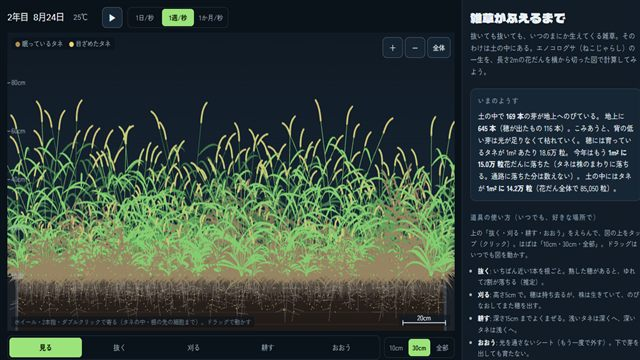
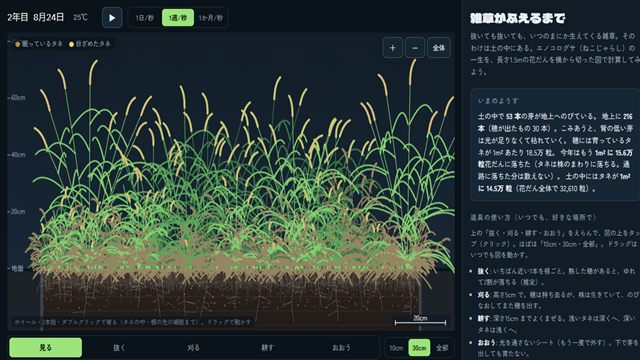
v003-lighter 雑草がふえるまで: 軽くした（花だん 1.5m・計算は手前半分 15cm、芽が多いときは同じころの小さな芽をまとめて計算、葉を面で描くのは 8px から）

diff --git a/weed-growth/index.html b/weed-growth/index.html
@@ -39,7 +39,7 @@
   <div id="panel">
     <header class="brand">
       <h1>雑草がふえるまで</h1>
-      <p>抜いても抜いても、いつのまにか生えてくる雑草。そのわけは土の中にある。エノコログサ（ねこじゃらし）の一生を、長さ2mの花だんを横から切った図で計算してみよう。</p>
+      <p>抜いても抜いても、いつのまにか生えてくる雑草。そのわけは土の中にある。エノコログサ（ねこじゃらし）の一生を、長さ1.5mの花だんを横から切った図で計算してみよう。</p>
     </header>
 
     <section class="card now">
@@ -109,7 +109,7 @@
           <li><b>地上へ</b>: 芽は胚乳（タネの中の弁当）を使って土の中をのびる。深いほど時間がかかり、5cm より深いと弁当が足りず、地上に届かずに死ぬ。</li>
           <li><b>育つ</b>: 1本ずつ、気温（10℃ を下限、30℃ でいちばん）と光で重さが増える。葉の広さは重さに比例。5cm 四方・高さの段ごとに葉を数え、自分より上にある葉の重なりで光が減る（背の高い株が勝つ）。光が足りない芽は枯れる。</li>
           <li><b>穂と実</b>: 芽が出てからの積算温度（10℃ をこえた分）で穂が出る。日が短いと早く出る（秋に出た芽は小さいまま穂をつける）。穂が出たあとに増えた重さの45%がタネになり、花から約220℃日で熟して、毎日5%ずつ落ちる。</li>
-          <li><b>落ちる</b>: 株のまわり（標準 10cm ＋ 高さ×0.25）にばらまく。花だんの外（通路）に落ちた分はなくなる。</li>
+          <li><b>落ちる</b>: 株のまわり（標準 10cm ＋ 高さ×0.25）にばらまく。花だんの外（左右・手前の通路）に落ちた分はなくなる。</li>
           <li><b>土の中で減る</b>: 1年に9%が死ぬ・くさる。表面のタネは虫や鳥に1日0.8%食べられ、1日0.6%が雨や土の割れ目で 5mm より下へ（推定）。</li>
           <li><b>冬</b>: 日平均 7℃ を下まわると地上の株は枯れる（このころ霜がおりる）。タネだけが冬をこす。</li>
         </ul>
@@ -117,7 +117,8 @@
       <details>
         <summary>簡単にしているところ</summary>
         <ul>
-          <li>花だんの幅（奥行き 30cm）は1つにまとめ、タネは横の位置と深さだけで数えています。株の奥行きは色の濃さだけ。</li>
+          <li>計算するのは、幅 30cm の花だんの手前半分（奥行き 15cm）。向こう半分は同じようすとし、まん中をこえて落ちたタネは向こうから来る分と入れかわるとしています。奥行きは1つにまとめ、タネは横の位置と深さだけで数えます。株の奥行きは色の濃さだけ。</li>
+          <li>芽がたくさんあるとき（900本より多いとき）は、計算と絵を軽くするため、同じ 1cm の列で同じころに出た小さな芽（0.05g まで）を1つのまとまりにします。本数は数えたまま、まとまりの中の芽は同じ重さで育つとして計算し、絵は代表の1本だけ描きます（まとめないときとくらべ、土の中のタネの数は1割ほどのちがい）。</li>
           <li>気温は東京の平年値（月平均）に、日ごとのゆらぎ（推定）を足したもの。雨・土の水分・日照りは入れていません（いつも芽が出られる湿りけ）。</li>
           <li>まわりから飛んでくるタネ・鳥やアリに運ばれるタネ・病気や虫は入れていません。</li>
           <li>株の形（分げつ・葉・穂・根）は重さから作った目安の絵です。根は土の中の1本1本ではなく、広がり方の目安。</li>

diff --git a/weed-growth/js/ui.js b/weed-growth/js/ui.js
@@ -138,7 +138,7 @@ function describeAt(px, py) {
     if (S.opts.xray) {
       for (const p of S.plants) if (p.st === 0 && Math.abs(p.x - w.x) < tol && w.y < 0.001 && w.y > -p.z0 - 0.004) {
         const q = sproutGeom(p);
-        return `<b>土の中でのびる芽</b>（深さ ${(p.z0 * 100).toFixed(1)}cm）<br>タネの中の胚乳（でんぷん）を使って、地上まであと ${Math.max(0, (q.shootTop * -100)).toFixed(1)}cm。` +
+        return `<b>土の中でのびる芽</b>（深さ ${(p.z0 * 100).toFixed(1)}cm` + (p.n > 1 ? `、同じころの ${p.n} 本をまとめて計算` : '') + `）<br>タネの中の胚乳（でんぷん）を使って、地上まであと ${Math.max(0, (q.shootTop * -100)).toFixed(1)}cm。` +
           (p.z0 > SP.depthMax ? '<br>深すぎて、弁当が足りずに地上に届かない。' : '');
       }
       if (SP.rootDia * s > 4) for (const p of S.plants) if (p.st === 1 || p.st === 2) for (const t of rootGeom(p).tips)
@@ -152,7 +152,7 @@ function describeAt(px, py) {
         }
       }
       const d = S.SD[i], a = S.SN[i];
-      return `<b>土の中</b> 深さ ${(-w.y * 100).toFixed(1)}cm<br>このます目（横1cm・深さ0.5cm・奥行き30cm）に タネ ${d + a} 粒（眠る ${d}・目ざめた ${a}）。` +
+      return `<b>土の中</b> 深さ ${(-w.y * 100).toFixed(1)}cm<br>このます目（横1cm・深さ0.5cm・奥行き15cm）に タネ ${d + a} 粒（眠る ${d}・目ざめた ${a}）。` +
         (zi < ZG ? (DF[zi] >= 1 ? '<br>芽を出しやすい深さ。' : '<br>ここからも芽を出せる（出にくい）。') : '<br>深すぎて芽を出さない。耕すと浅いところへ上がる。');
     }
     return '<b>土</b><br>ふだんは中が見えない。「土を透かして見る」で、眠っているタネや根が見える。';
@@ -177,9 +177,9 @@ function seedText(awake, depth) {
 function plantText(p) {
   const age = p.em >= 0 ? Math.round(S.day - p.em) : 0, st = panState(p);
   const state = p.st === 3 ? '枯れた株' : p.st === 2 ? (st.flower ? '穂が出て花が咲いている' : '穂のタネが熟していく') : p.H < 0.03 ? '芽生え' : '葉をふやしている';
-  let t = `<b>エノコログサ</b>（${state}。芽が出て ${age}日）<br>高さ ${(p.H * 100).toFixed(0)}cm・重さ ${p.W < 1 ? (p.W * 1000).toFixed(0) + 'mg' : p.W.toFixed(1) + 'g'}（乾いた重さ）・茎 ${1 + p.til} 本`;
+  let t = `<b>エノコログサ</b>（${state}。芽が出て ${age}日）` + (p.n > 1 ? `<br>ここに同じころ生えた <b>${p.n} 本</b>をまとめて計算（描くのは1本。数値は1本あたり）` : '') + `<br>高さ ${(p.H * 100).toFixed(0)}cm・重さ ${p.W < 1 ? (p.W * 1000).toFixed(0) + 'mg' : p.W.toFixed(1) + 'g'}（乾いた重さ）・茎 ${1 + p.til} 本`;
   if (p.st !== 3) t += `・光 ${Math.round(p.light * 100)}%`;
-  if (p.st >= 2) t += `<br>穂で作ったタネ ${p.made.toLocaleString('ja-JP')} 粒（熟して穂にある ${p.ripe.toLocaleString('ja-JP')}・落とした ${p.shedN.toLocaleString('ja-JP')}）`;
+  if (p.st >= 2) t += `<br>穂で作ったタネ ${Math.round(p.made / p.n).toLocaleString('ja-JP')} 粒（熟して穂にある ${Math.round(p.ripe / p.n).toLocaleString('ja-JP')}・落とした ${Math.round(p.shedN / p.n).toLocaleString('ja-JP')}）`;
   if (TOOL === 'pull') t += '<br><span style="color:var(--acc)">タップで抜く</span>';
   return t;
 }

diff --git a/weed-growth/js/shapes.js b/weed-growth/js/shapes.js
@@ -19,12 +19,12 @@ function seedSpot(i, k) {
 // ---------- 地上の株（エノコログサ: 根もとから分げつした茎に葉、てっぺんに穂） ----------
 function plantGeom(p) {
   const fall = p.st === 3 ? Math.min(1, p.dd / 45) : 0;
-  const key = p.st + '|' + Math.round(p.H * 600) + '|' + p.til + '|' + Math.round(fall * 20) + '|' + (p.st >= 2 ? Math.min(30, Math.floor(p.made / 120)) : 0);
+  const key = p.st + '|' + Math.round(p.H * 600) + '|' + p.til + '|' + Math.round(fall * 20) + '|' + (p.st >= 2 ? Math.min(30, Math.floor(p.made / p.n / 120)) : 0);
   if (p._gk === key) return p._g;
   const r = mulberry(p.rs), G = { stems: [], leaves: [], pans: [] };
   const H = Math.max(0.006, p.H), seedling = H < 0.03;
   const nt = seedling ? 1 : Math.min(10, 1 + p.til), fs = p.lean >= 0 ? 1 : -1;
-  const npan = p.st >= 2 ? Math.min(nt, 1 + Math.floor(p.made / 500)) : 0;
+  const npan = p.st >= 2 ? Math.min(nt, 1 + Math.floor(p.made / p.n / 500)) : 0;
   for (let k = 0; k < nt; k++) {
     const side = k === 0 ? 0 : (k % 2 ? 1 : -1), ring = Math.ceil(k / 2);
     let a = side * (0.07 + 0.08 * ring) * (0.8 + 0.5 * r()) + p.lean * 0.25 + fall * fs * 1.25;

diff --git a/weed-growth/js/data.js b/weed-growth/js/data.js
@@ -3,13 +3,13 @@
 'use strict';
 
 // ---------- 花だん（横から切った断面） ----------
-const BED_W = 2.0;      // 長さ m（画面の横）
-const BED_D = 0.30;     // 幅 m（画面の奥行き。1つにまとめる）
+const BED_W = 1.5;      // 長さ m（画面の横）
+const BED_D = 0.15;     // 奥行き m（幅 30cm の花だんの半分。残り半分は鏡うつしで同じとする。1つにまとめる）
 const SOIL_D = 0.20;    // 見せる土の深さ m
 const AIR_H = 1.0;      // 見せる空気の高さ m
-const NX = 200, DXC = BED_W / NX;     // タネのます目: 横 1cm
+const NX = 150, DXC = BED_W / NX;     // タネのます目: 横 1cm
 const NZ = 40, DZC = SOIL_D / NZ;     // 深さ 0.5cm
-const LX = 40, LY = 6, LC = BED_W / LX; // 光のます目: 5cm 四方（奥行きも 5cm×6）
+const LX = 30, LY = 3, LC = BED_W / LX; // 光のます目: 5cm 四方（奥行きも 5cm×3）
 // 光の高さの段（地面の近くほど細かく。芽どうしの背の差で光の取りあいが決まるので）
 const HEDGE = [0, 0.005, 0.01, 0.02, 0.03, 0.05, 0.08, 0.12, 0.18, 0.26, 0.36, 0.5, 0.7, 2];
 const HB = HEDGE.length - 1;

diff --git a/weed-growth/launcher.html b/weed-growth/launcher.html
@@ -42,7 +42,7 @@ td a{color:var(--ink)}
   </section>
   <section>
     <h2>すべてのバックアップ</h2>
-    <table><tr><td>v002-stageA</td><td><a href="versions/v002-stageA/index.html">段階A（エノコログサ1種・道具4つ・実験3つ・ズームの中）</a></td><td>2026-10-15</td></tr><tr><td>v001-start</td><td><a href="versions/v001-start/index.html">雛形（new-app.ps1）</a></td><td>2026-10-15</td></tr></table>
+    <table><tr><td>v003-lighter</td><td>軽くした（花だん 1.5m×15cm、芽が多いときはまとめて計算）。Git のコミットに記録</td><td>2026-10-15</td></tr><tr><td>v002-stageA</td><td><a href="versions/v002-stageA/index.html">段階A（エノコログサ1種・道具4つ・実験3つ・ズームの中）</a></td><td>2026-10-15</td></tr><tr><td>v001-start</td><td><a href="versions/v001-start/index.html">雛形（new-app.ps1）</a></td><td>2026-10-15</td></tr></table>
   </section>
 </main>
 </body>

diff --git a/weed-growth/js/draw.js b/weed-growth/js/draw.js
@@ -152,7 +152,7 @@ function plantColor(p) {
   return COL.leaf[shade];
 }
 function drawPlants() {
-  const s = VIEW.s, wide = SP.leafW * s > 3.5;
+  const s = VIEW.s, wide = SP.leafW * s > 8;   // 葉の幅が 8px をこえたら1枚ずつ面で
   g.lineCap = 'round'; g.lineJoin = 'round';
   if (!wide) { drawPlantsFar(); return; }
   // 近く: 1本ずつ、葉を面で（奥から手前へ）

diff --git a/weed-growth/DEVNOTES.md b/weed-growth/DEVNOTES.md
@@ -2,10 +2,10 @@
 
 最終更新: 2026-10-15
 
-エノコログサ（ねこじゃらし）の一生を、長さ2m・幅30cm の花だんを横から切った断面で計算するアプリ。企画は `PLAN.md`。
+エノコログサ（ねこじゃらし）の一生を、長さ1.5m・幅30cm の花だん（計算は手前半分の 15cm）を横から切った断面で計算するアプリ。企画は `PLAN.md`。
 
 ## 別セッションで続けるとき（まずここ）
-- **いまの状態**: v002-stageA（段階A。2026-10-15）。保管庫（`archive.html`）に掲載。入口には載せない（RULES 8.1）。英語はまだ（入口へ移すときに）。
+- **いまの状態**: v003-lighter（2026-10-15。重いと言われ、花だんを 1.5m×15cm に小さくし、芽が多いときはまとめて計算）。その前は v002-stageA（段階A）。保管庫（`archive.html`）に掲載。入口には載せない（RULES 8.1）。英語はまだ（入口へ移すときに）。
 - **次にやること**: ユーザーに見てもらって感想を聞く。そのあと `PLAN.md` の段階B（竹＝地下茎、タンポポ＝綿毛、スベリヒユ）。種を足すときは `data.js` の `SPECIES` に足し、`model.js` の `SP` を切りかえる形に（株の形 `shapes.js` は種ごとに関数を分ける）。
 - **読む順**: `../RULES.md` → このファイル → 下の「ファイル構成」で関係するファイルだけ。数値を変えるなら `js/data.js` だけ。
 - **動かし方**: サーバー `apps`（`.claude/launch.json`）で http://localhost:8765/weed-growth/ 。
@@ -31,7 +31,7 @@
 ## しくみ
 
 ### 1. 花だんと時間
-- 長さ 2m（横）× 幅 30cm（奥行き。1つにまとめる）。土は 20cm まで見せる。始まりは1年目の3月1日。「n年目」は3月1日から次の2月末まで。
+- 長さ 1.5m（横）× 幅 30cm。計算は手前半分（奥行き 15cm、y = 0 が通路の縁、0.15 がまん中）。向こう半分は鏡うつしで同じとし、まん中をこえて落ちたタネは入れかわる（y が 0〜0.30 なら花だん、外は通路）。奥行きは1つにまとめる。土は 20cm まで見せる。始まりは1年目の3月1日。「n年目」は3月1日から次の2月末まで。
 - 気温は東京の平年値（1991〜2020）の月平均を線でつなぎ、日ごとのゆらぎ（AR(1)、標準偏差 2℃、決まった乱数なので道具を使っても天気は同じ）。日の長さは緯度 35.7°。
 - 1コマ = 0.25日（1日/秒）・0.5日（1週/秒）・1日（1か月/秒）。
 
@@ -46,17 +46,18 @@
 - 光: 5cm 四方 × 高さの段（地面の近くほど細かい `HEDGE`）ごとに葉の広さを足し、株の 0.6×高さ より上にある他の株の葉で exp(−0.6 × 葉の重なり)。光が 0.15 より少ないと 1日 0.15×(1−光/0.15) で枯れる（大きい株は 0.3倍）。
 - 穂: 芽が出てからの積算温度（10℃ をこえた分）が、日の長さ 14時間以上で 520、12.5時間以下で 260（間は線で）になると穂が出る。そのあと増えた重さの 45% ÷ 1.2mg がタネ。花から 220℃日で熟し、毎日 5% 落ちる。穂が出て 1100℃日で枯れる。日平均 7℃ 未満で枯れる（霜）。枯れた株は残った熟したタネを 1日12% 落としながら 50日で倒れて消える。
 - 落ちる: 穂の位置から 標準偏差 10cm ＋ 高さ×0.25 の正規分布で、横と奥行きにばらまく。花だんの外（通路）に落ちた分は `tot.lost`。
-- 合わせた測定: 1本だけ広いところで育つと 1年で約 11,000粒（USU の 5,000〜12,000）。こみあった花だんは 1m² に 10万〜16万粒でほぼ止まる（Forcella ら 1992 の畑 600〜162,000）。
+- まとめる（`groupSeedlings`、株が `GROUP_AT` 900 より多いとき）: 土の中の芽は同じ 1cm の列・深さ 5mm・積算温度 15℃日ごと、地上の芽（0.05g まで）は同じ列・重さ（log2 の半分きざみ）・積算温度 25℃日ごとに1つにし、本数を `p.n` に。重さ・積算温度は平均。葉の広さ・タネは ×n、光は自分1本ぶんの葉だけ除く（`own /= p.n`。これを忘れると、まとまりの中で光を取りあわず、タネが5倍になった）。光が足りずに枯れるのは n から二項分布で。抜くと1本ぶんだけ（穂のタネも 1/n）。数値の表示は1本あたり。まとめないときとくらべ、3年目の土の中のタネは +2%〜+8%。
+- 合わせた測定: 1本だけ広いところで育つと 1年で約 11,000粒（USU の 5,000〜12,000）。こみあった花だんは 1m² に 12万〜17万粒でほぼ止まる（Forcella ら 1992 の畑 600〜162,000）。
 
 ### 4. 道具・実験
 - 抜く: いちばん近い1本。熟したタネの2割がゆれて落ち、残りは持ち去る。刈る: 高さ5cm。穂は持ち去り（熟した分の3割は落ちる）、重さは刈った高さの割合×0.8 減り、そこから 1cm/日 でのびなおす。耕す: 0〜15cm のタネを、列ごとによくまぜる。株はすきこみ、熟したタネは土の中へ。おおう: その列の株は光0（1日 0.3 で枯れる）。
 - 休眠をなくす: 押したときに土の中の眠っているタネを全部目ざめさせ、これから落ちるタネも目ざめた状態に。穂が出たらすぐ抜く: 穂が出たその日に抜く（タネは1粒も落ちない）。
-- 結果の例（ふつうの庭、`node` で計算）: そのまま → 1m² に 3.6万 → 12.7万 → 14.2万…。穂が出たらすぐ抜く → 750 → 618 → 545 → 482 → 442 → 420（深いタネは芽を出さずに待つので、年 10% くらいしか減らない）。1粒から → 2年目の夏に 1万粒をこえ、3年目に 10万粒/m²。
+- 結果の例（ふつうの庭、`node` で計算、v003）: そのまま（毎年2月末）→ 1m² に 2.9万 → 12.1万 → 14.5万 → 17.4万。穂が出たらすぐ抜く → 787 → 631 → 556 → 507 → 440 → 387（深いタネは芽を出さずに待つので、年 10% くらいしか減らない）。1粒から → 8千 → 8.7万 → 13.4万。
 
 ### 5. 描く・寄る
 - 寄ると本当の大きさ。タネ 2.1×1.2mm、根の太さ 0.4mm、葉の幅 9mm、小穂 1mm に7つ（1つの穂に 350〜450粒）。小さすぎるものは最低の太さで描く。ます目に描ききれないタネはます目の濃さで。
 - タネの断面は長さ 36px 以上、根の先は太さ 6px 以上、小穂は 7px 以上で1つずつ描く。名札は画面の中央にいちばん近い1つだけ。
-- 遠くから: 株・根・穂は色ごとにまとめて1本の線で描く（9,000本でも 1フレーム 33ms ほど）。
+- 遠くから: 株・根・穂は色ごとにまとめて1本の線で描く。葉を1枚ずつ面で描くのは葉の幅が 8px をこえてから。v003 で、いちばん混む時期でも 1フレーム 10ms・1日の計算 5ms ほど（株のまとまり 2,500 まで）。
 
 ## ハマったところ
 - 光の高さの段を 10cm ごとにしたら、芽生えがみな同じ段に入って光を同じに分け合い、1m² に何万本もの芽が枯れずに残った（遅くもなった）→ 地面の近くを細かく（0.5cm〜）して、背の差で光の取りあいが決まるようにした。
@@ -72,9 +73,10 @@
 3. `__wegr.jump('seed')`・`'root'`・`'flower'` → `viewTick(5); __wegr.draw()` で、タネの断面・根の先の細胞と根毛・小穂の花が描かれ、名札が出る。
 4. 道具: `pullAt` `mow(0,1)` `till(1,2)` `cover(0,0.5,true)` → `run(60)` でシートの下の株が 0、できごとに4行。時間のグラフを押して（`restoreSnap(snapIndexAt(30))`）もどれる。
 5. 「タネ1粒だけ」を押すと、そのタネのそばへ寄る。`run(75,0.5)` で芽が出て根がある。
-6. 重さ: `restart('garden'); run(365*2+140)` のあと `frame()` が 50ms 以下。
+6. 重さ: `restart('garden')` から30日ずつ3年進め、`frame()` が 20ms 以下・`stepModel(1)` が 10ms 以下・`S.plants.length` が 3,000 以下。
 7. 幅 375px（`resize_window` mobile）で横にはみ出さない（`scrollWidth` 375）、図・道具・数字が上に固定、道具の「おおう」が1行。
 
 ## 状態
 - 2026-10-15 v001-start: new-app.ps1 で雛形を作った（保管庫にカード）。
 - 2026-10-15 v002-stageA: 段階A。エノコログサ1種、土の中のタネ（ます目）・芽・株（1本ずつ）・光の取りあい・穂・落ちるタネ、道具4つ（抜く・刈る・耕す・おおう）、実験3つ、はじめかた3つ、巻きもどし、ズームの中（タネの断面・根の先・小穂）。versions/v002-stageA に保存。
+- 2026-10-15 v003-lighter: ユーザー「数を間引いて、範囲も3/4くらいに。おもすぎる」→ 花だんを 1.5m（3/4）× 計算 15cm（向こう半分は鏡うつし）にして数を 37% に、芽が 900 より多いときは同じころの小さな芽をまとめて計算（`groupSeedlings`）、葉を面で描くのは 8px から。いちばん混む時期の 1フレーム 180ms → 10ms。

diff --git a/weed-growth/PLAN.md b/weed-growth/PLAN.md
@@ -14,9 +14,9 @@
 - コンピュータならではの実験: 土を透かして見る、休眠をなくす、1粒から始める、穂が出たらすぐ抜く（完ぺきな草取り）、時間を巻きもどして別の手を試す。
 
 ## 形
-- **1つの花だん**（長さ 2m・幅 30cm）を横から切った断面。上は空気 1m、下は土 20cm。1つの標本で、道具はいつでも好きな場所でマウス（指）で使う（[ユーザーの好み] 並べて比べない）。
+- **1つの花だん**（長さ 1.5m・幅 30cm。計算は手前半分の 15cm）を横から切った断面。2026-10-15 に重いので 2m×30cm から小さくした。上は空気 1m、下は土 20cm。1つの標本で、道具はいつでも好きな場所でマウス（指）で使う（[ユーザーの好み] 並べて比べない）。
 - 時間は日ごと（1日・1週・1か月/秒）。時間のバーで巻きもどして試しなおせる（10年まで）。
-- **ホイール（つまむ）で本当の大きさまで寄れる**: 花だん全体（2m）→ 1本 → タネ（2mm）の中の胚・胚乳 → 根の先の細胞（10〜20µm）→ 穂の小さな花。寄るほど細かく描く（セマンティックズーム）。マウスを乗せると説明。
+- **ホイール（つまむ）で本当の大きさまで寄れる**: 花だん全体（1.5m）→ 1本 → タネ（2mm）の中の胚・胚乳 → 根の先の細胞（10〜20µm）→ 穂の小さな花。寄るほど細かく描く（セマンティックズーム）。マウスを乗せると説明。
 - 絵は濃紺に細い線と淡い面（ほかのアプリと同じ）。スマホでは図とおもな数を上に固定し、道具・グラフ・説明は下でスクロール。
 
 ## 段階A（この版）
@@ -38,7 +38,7 @@
 - 実際の気象データの読み込み（東京の平年値の形だけ）。
 
 ## 簡単にするところ（画面にも書く）
-- 花だんの奥行き方向（30cm）は1つにまとめ、タネの位置は横と深さだけ。光の取りあいは 5cm 四方ごと。
+- 花だんの奥行き方向（計算する 15cm）は1つにまとめ、タネの位置は横と深さだけ。光の取りあいは 5cm 四方ごと。
 - 気温は東京の平年値（月平均）に日ごとのゆらぎ。土の水分・雨は入れない（いつも芽が出られる湿りけ）。
 - 成長・休眠・タネの死ぬ速さはほとんどが推定。測られた値（1本のタネの数、土の中で減る速さ、芽を出せる深さ）に合う大きさにして、画面に「推定」と書く。
 
